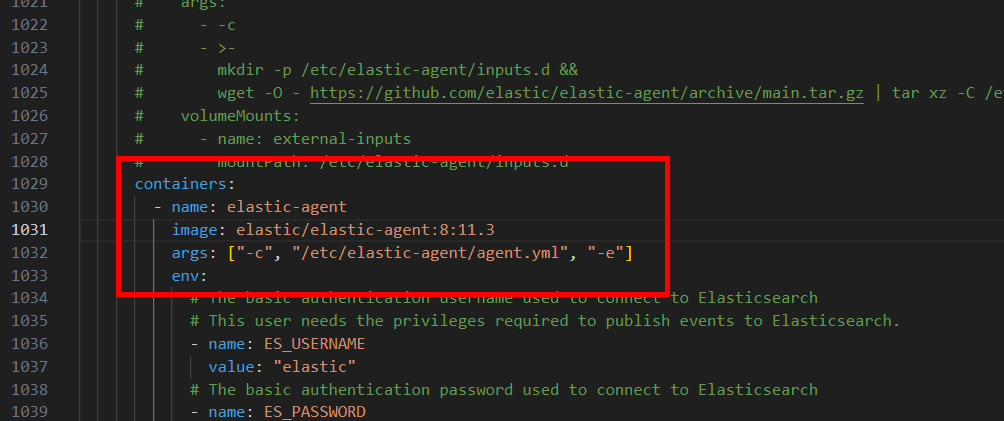
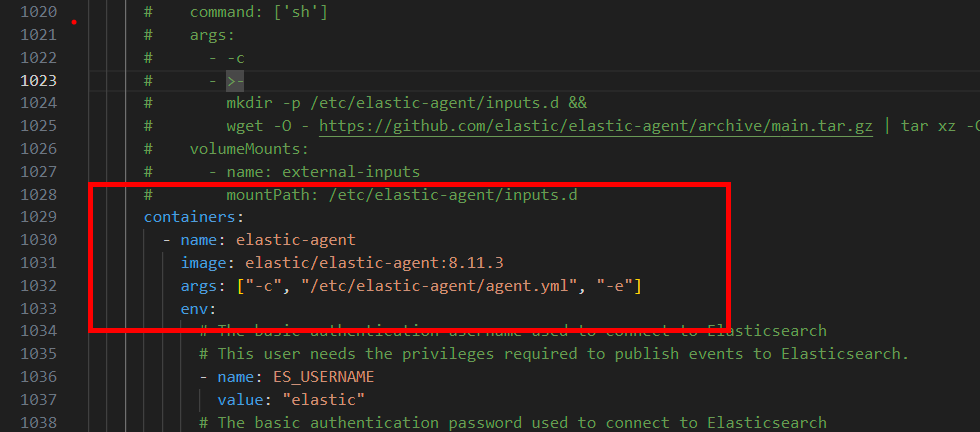
2025-05-16 18:26:34

diff --git a/day2/lab8/README.md b/day2/lab8/README.md
@@ -89,10 +89,8 @@ kubectl get svc efk-es-http -n logging -o jsonpath='{.metadata.name}.{.metadata.
 
 * the proper container image name is `elastic/elastic-agent:8.11.3` 
 
-* WARNING: ( Late Update ) : the below screenshot have error , the image name suppose to be `elastic/elastic-agent:8.11.3` and NOT `elastic/elastic-agent:8:11.3` 
-
-
 ![alt text](image-8.png)
+
 
 
 ---
